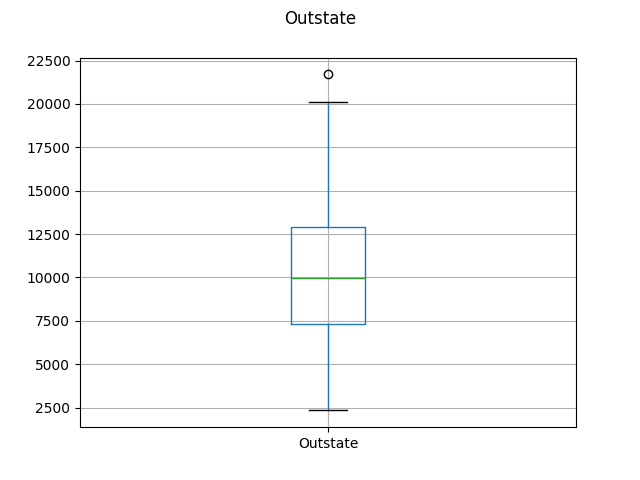
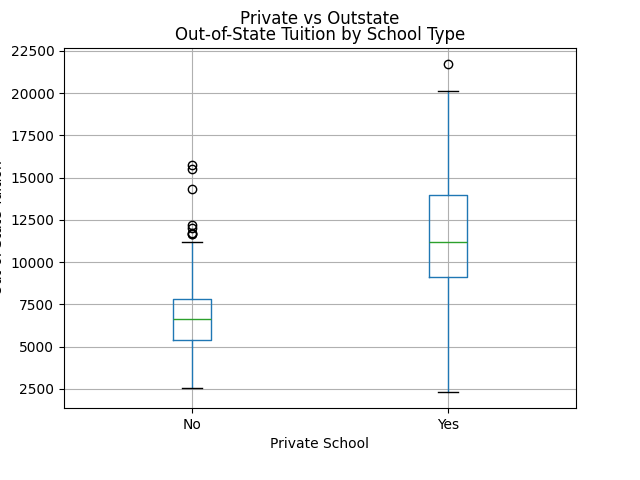
continue with boxplots

diff --git a/applied/ch2.py b/applied/ch2.py
@@ -22,9 +22,18 @@ print(college.describe())
 # plt.suptitle("College Stats")
 # plt.savefig('../plots/my_plot.png')
 
-pd.plotting.boxplot(college[['Outstate']])
+## 8e
 
-plt.suptitle("Outstate")
+# Pass the whole DataFrame as the first argument
+pd.plotting.boxplot(college, column='Outstate', by='Private')
+
+# Optional formatting
+plt.title('Out-of-State Tuition by School Type')
+plt.suptitle('') # Removes the automatic title
+plt.xlabel('Private School')
+plt.ylabel('Out-of-State Tuition')
+
+plt.suptitle("Private vs Outstate")
 plt.savefig('../plots/my_plot2.png')
 plt.close()
 
